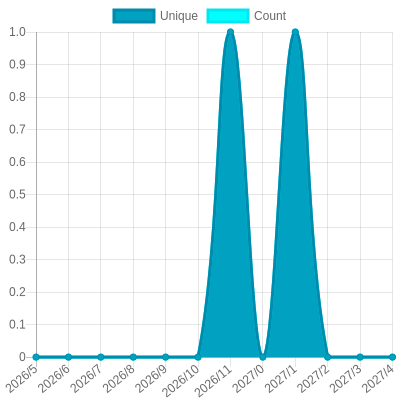
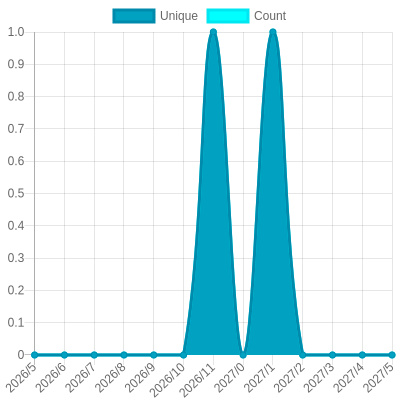
Update views

diff --git a/README.md b/README.md
@@ -26,7 +26,7 @@ The project created and maintained by [gayanvoice](https://github.com/gayanvoice
 			</a>
 		</td>
 		<td>
-			2026/5/30 12:48 AM UTC
+			2026/5/31 12:52 AM UTC
 		</td>
 		<td>
 			23
@@ -37,7 +37,7 @@ The project created and maintained by [gayanvoice](https://github.com/gayanvoice
 	</tr>
 </table>
 
-<small><i>Last updated on 2026/6/1 7:40 PM UTC</i></small>
+<small><i>Last updated on 2026/6/2 12:55 AM UTC</i></small>
 
 ## ✂Copy and 📋 Paste
 ### Total Views Badge

diff --git a/readme/278571140/year.md b/readme/278571140/year.md
@@ -20,6 +20,17 @@
 	</tr>
 	<tr>
 		<td>
+			<code>2026/6/1</code>
+		</td>
+		<td>
+			<code>0</code>
+		</td>
+		<td>
+			<code>0</code>
+		</td>
+	</tr>
+	<tr>
+		<td>
 			<code>2026/5/1</code>
 		</td>
 		<td>
@@ -153,7 +164,7 @@
 </table>
 
 </details>
-<small><i>Last updated on 2026/6/1 7:39 PM UTC</i></small>
+<small><i>Last updated on 2026/6/2 12:55 AM UTC</i></small>
 
 ## ✂Copy and 📋 Paste
 ### SVG Badge
